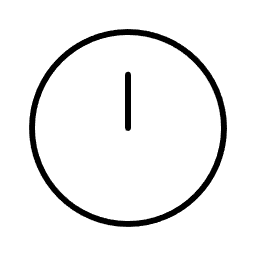
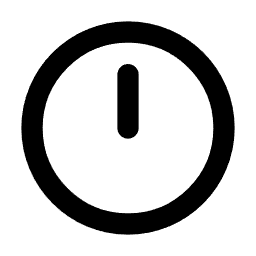
Timer feature completed

Changed region(s): [[0.0625, 0.0625, 0.9375, 0.9375], [0.4375, 0.25, 0.5625, 0.5625]]

diff --git a/src/Feature/Timer.jsx b/src/Feature/Timer.jsx
@@ -1,7 +1,8 @@
 import React, { useEffect, useRef } from 'react';
-import { View, Text, Animated, Image, StyleSheet } from 'react-native';
+import { View, Text, Animated, Image, StyleSheet, Easing } from 'react-native';
 
 export default function TimerBlock({
+  mode, // 'w' or 'b'
   activeColor,
   whiteTime,
   blackTime,
@@ -9,44 +10,48 @@ export default function TimerBlock({
   timeControl,
 }) {
   const rotation = useRef(new Animated.Value(0)).current;
+  const rotationDeg = useRef(0);
 
+  const isActive = activeColor === mode;
+  const isWhite = mode === 'w';
+
+  // 🔁 Reset rotation when timer becomes inactive
   useEffect(() => {
-    if (!isRunning || timeControl === 0) return;
+    if (!isActive) {
+      rotationDeg.current = 0;
+      rotation.setValue(0);
+    }
+  }, [isActive]);
+
+  // 🔁 Animate rotation every second when active
+  useEffect(() => {
+    if (!isActive || !isRunning || timeControl === 0) return;
 
     const rotateLoop = setInterval(() => {
+      rotationDeg.current += 90;
+
       Animated.timing(rotation, {
-        toValue: 1,
+        toValue: rotationDeg.current,
         duration: 300,
+        easing: Easing.out(Easing.ease),
         useNativeDriver: true,
-      }).start(() => {
-        rotation.setValue(0);
-      });
+      }).start();
     }, 1000);
 
     return () => clearInterval(rotateLoop);
-  }, [isRunning, activeColor]);
+  }, [isActive, isRunning, timeControl]);
 
   const rotateStyle = {
     transform: [
       {
         rotate: rotation.interpolate({
-          inputRange: [0, 1,],
+          inputRange: [0, 360],
           outputRange: ['0deg', '360deg'],
+          extrapolate: 'extend',
         }),
       },
     ],
   };
-
-  let iconSource;
-  try {
-    iconSource =
-      activeColor === 'w'
-        ? require('../../assets/clock-white.png')
-        : require('../../assets/clock-black.png');
-  } catch (e) {
-    console.warn('Clock icon missing:', e);
-    iconSource = null;
-  }
 
   const formatTime = (seconds) => {
     const m = Math.floor(seconds / 60);
@@ -55,26 +60,37 @@ export default function TimerBlock({
   };
 
   const timeText =
-    timeControl === 0 ? '--:--' : activeColor === 'w' ? formatTime(whiteTime) : formatTime(blackTime);
+    timeControl === 0 ? '--:--' : mode === 'w' ? formatTime(whiteTime) : formatTime(blackTime);
 
-  const isWhite = activeColor === 'w';
+  const bgColor = isActive
+    ? isWhite ? '#fff' : '#000'
+    : isWhite ? '#eee' : '#444';
+
+  const textColor = isActive
+    ? isWhite ? '#000' : '#fff'
+    : isWhite ? '#888' : '#ccc';
+
+  let iconSource = null;
+  try {
+    iconSource =
+      mode === 'w'
+        ? require('../../assets/clock-white.png')
+        : require('../../assets/clock-black.png');
+  } catch (e) {
+    console.warn('Clock icon missing:', e);
+  }
 
   return (
-    <View
-      style={[
-        styles.timerBlock,
-        { backgroundColor: isWhite ? '#fff' : '#000' },
-      ]}
-    >
-      {iconSource && (
-        <Animated.Image source={iconSource} style={[styles.timerIcon, rotateStyle]} />
-      )}
-      <Text style={[styles.timerText, { color: isWhite ? '#000' : '#fff' }]}>
-        {timeText}
-      </Text>
-      
+    <View style={[styles.timerBlock, { backgroundColor: bgColor }]}>
+      <View style={styles.iconWrapper}>
+        {isActive && iconSource ? (
+          <Animated.Image source={iconSource} style={[styles.timerIcon, rotateStyle]} />
+        ) : (
+          <View style={styles.timerIcon} />
+        )}
+      </View>
+      <Text style={[styles.timerText, { color: textColor }]}>{timeText}</Text>
     </View>
-    
   );
 }
 
@@ -89,10 +105,16 @@ const styles = StyleSheet.create({
     marginTop: 12,
     alignSelf: 'center',
   },
-  timerIcon: {
+  iconWrapper: {
     width: 24,
     height: 24,
     marginRight: 8,
+    justifyContent: 'center',
+    alignItems: 'center',
+  },
+  timerIcon: {
+    width: 24,
+    height: 24,
     resizeMode: 'contain',
   },
   timerText: {

diff --git a/src/PlayFriend/playinPersonPage2.jsx b/src/PlayFriend/playinPersonPage2.jsx
@@ -164,12 +164,13 @@ export default function PlayinPersonPage2() {
   {timeControl > 0 && (
     <View style={styles.timerRight}>
       <TimerBlock
-        activeColor="b"
+        mode="b"
+        activeColor={activeColor}
         whiteTime={whiteTime}
         blackTime={blackTime}
         isRunning={isRunning && activeColor === 'b'}
         timeControl={timeControl}
-      />
+        />
     </View>
   )}
 </View>
@@ -263,12 +264,13 @@ export default function PlayinPersonPage2() {
   {timeControl > 0 && (
     <View style={styles.timerRight}>
       <TimerBlock
-        activeColor="w"
-        whiteTime={whiteTime}
-        blackTime={blackTime}
-        isRunning={isRunning && activeColor === 'w'}
-        timeControl={timeControl}
-      />
+  mode="w"
+  activeColor={activeColor}
+  whiteTime={whiteTime}
+  blackTime={blackTime}
+  isRunning={isRunning && activeColor === 'w'}
+  timeControl={timeControl}
+/>
     </View>
   )}
 </View>
